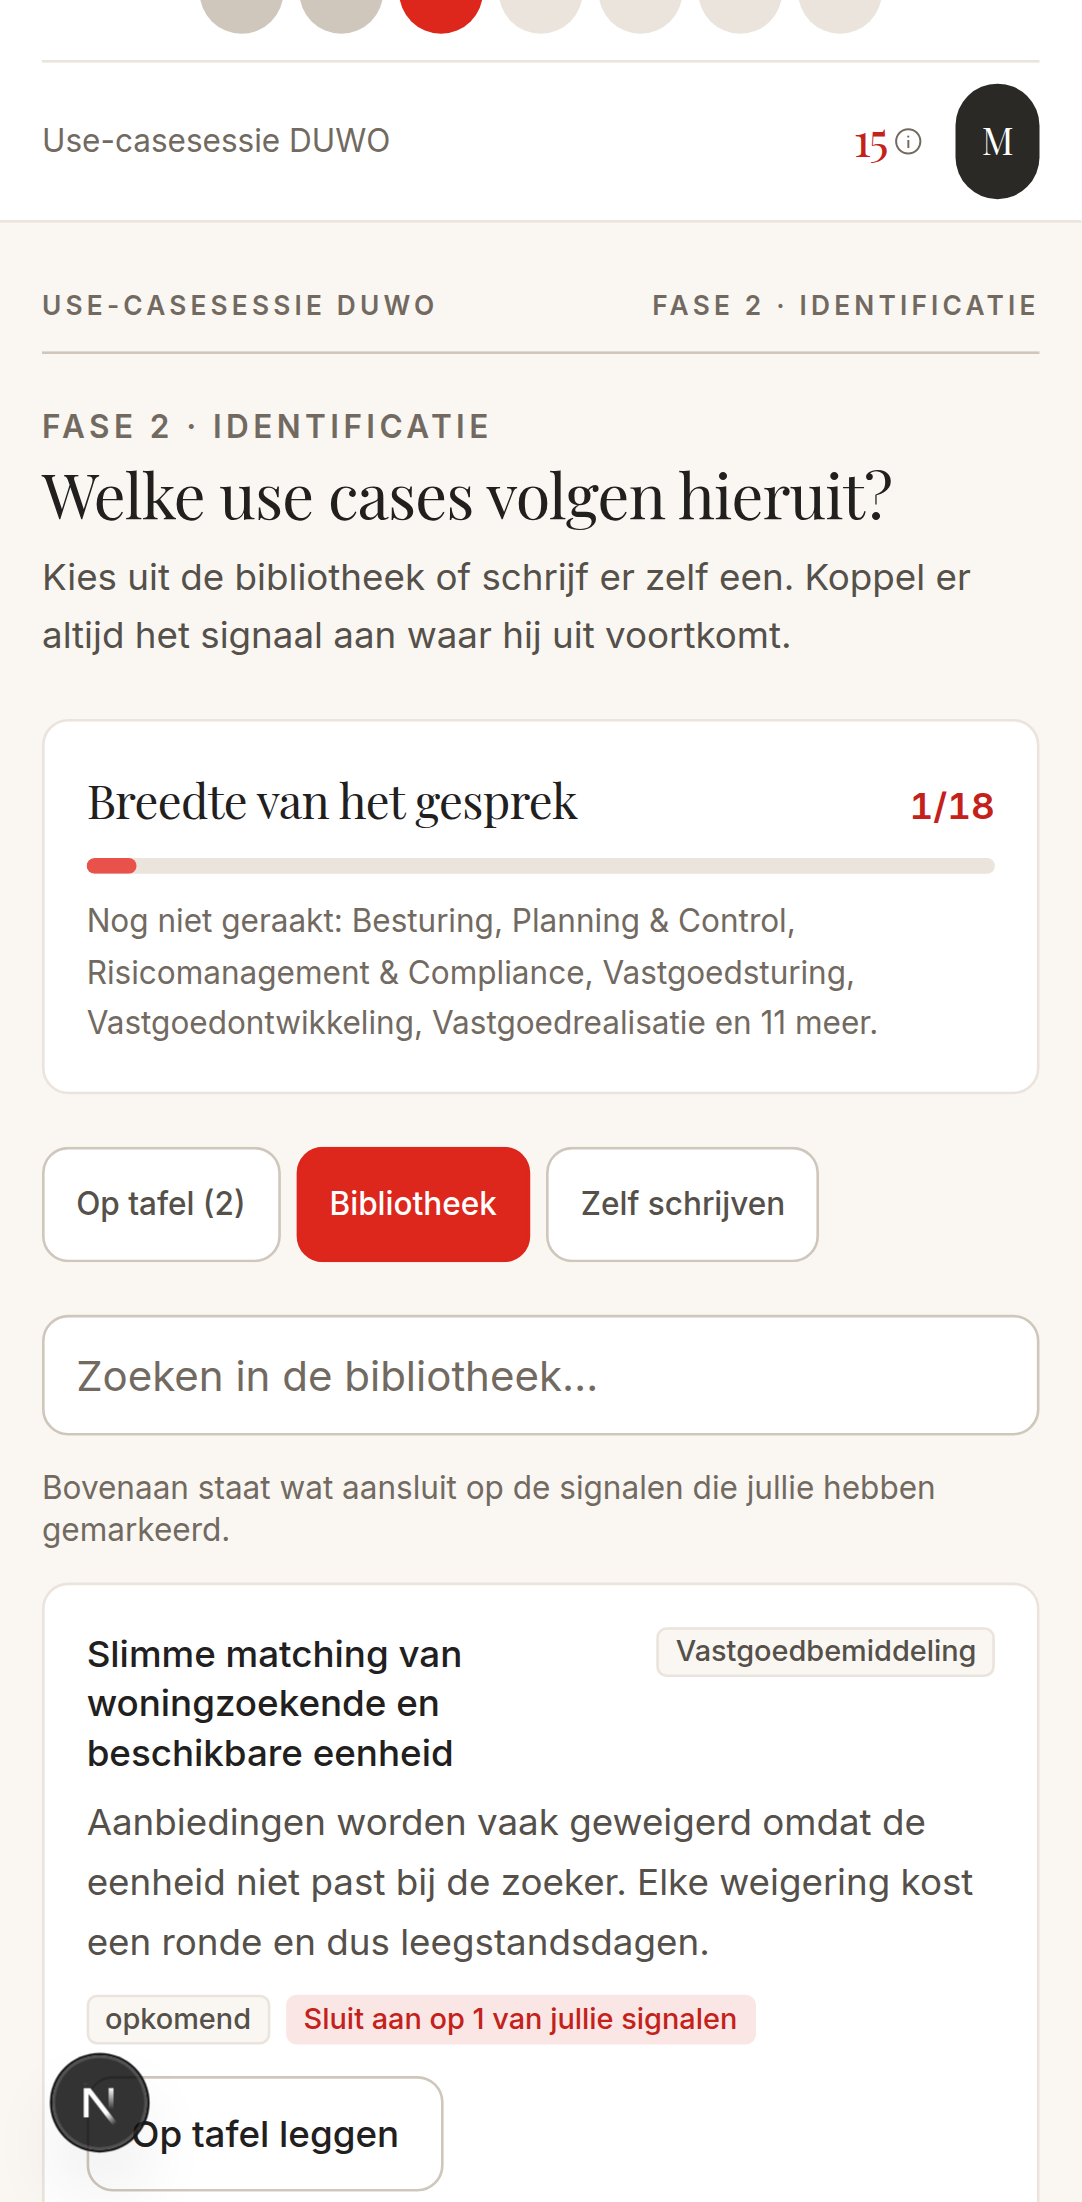
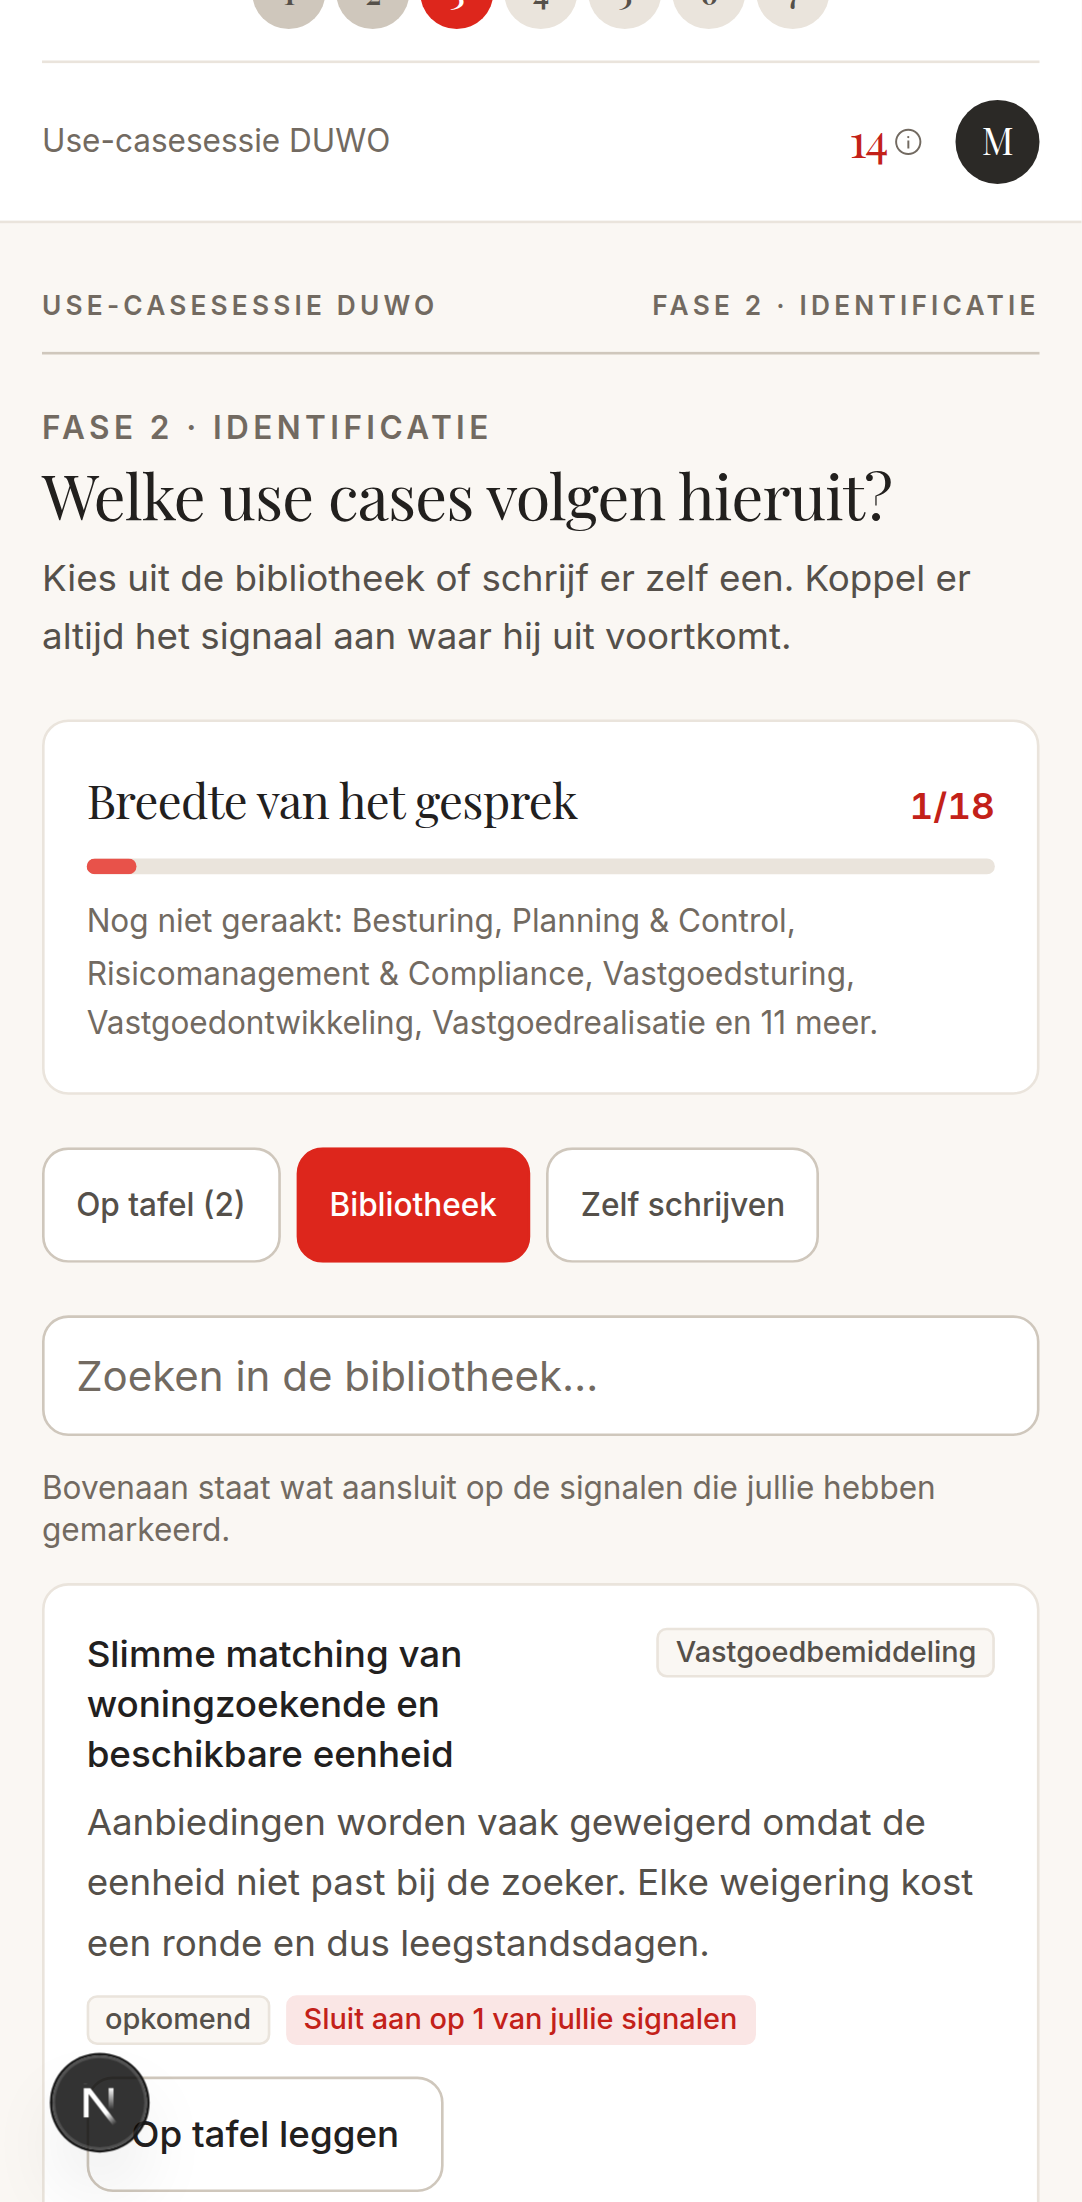
Genummerde stapcirkels in de navigatiebalk, met zichtbare klik-animatie
De stappenrij bestond uit dunne stippen (6 px hoog) zonder enige aanduiding
welke stap welke fase was — enkel een kleurverschil. Nu een cijfer (1–7) per
stap, groot genoeg om te lezen en te raken.

Bijvangst tijdens het bouwen: de bestaande hover-lift/press-duik die elke knop
al automatisch krijgt (globals.css) bleek op deze stippen vrijwel onzichtbaar,
niet omdat de animatie ontbrak maar omdat de globale regel "elke knop minstens
44 px hoog" een 6 px stip anders al in een streep trekt — precies het probleem
dat `PijlActie` elders al oploste door de zichtbare tekening in een eigen
44×44-raakvlak te zetten, los van de knop die de maat opeist. Diezelfde
constructie nu ook hier: de zichtbare cirkel is een <span> binnen de knop, niet
de knop zelf.

Bij het toepassen van die constructie bleek het avatarknopje (rol/opdracht,
uit de vorige ronde) aan hetzelfde euvel te lijden — 32 px breed maar door de
regel 44 px hoog, dus een ei in plaats van een cirkel. Nooit opgevallen omdat
het verschil op schermgrootte klein oogt; hier meteen meegefixt met dezelfde
raakvlak-constructie, gemeten met een boundingBox-toets (32×44 voor de fix,
32×32 erna).

Kleurstaten kregen ieder hun eigen tekstkleur op het cijfer (wit op vol accent,
accent-diep op de zachte tint, inkt-zacht op de rand-tinten). Bij het narekenen
bleek `rand` met `inkt-licht` op 4,21 te zitten — onder de norm van 4,5 voor
kleine tekst — dus is dat `inkt-zacht` geworden (6,32). De overige drie
[…]

diff --git a/src/components/sessiebalk.tsx b/src/components/sessiebalk.tsx
@@ -20,11 +20,18 @@ import { InfoIcoon, OogDichtIcoon, OogIcoon, SyncIcoon, WaarschuwingIcoon } from
  * automatisch mee (`eigen_fase` is dan null). Wie zelf doorklikt naar een latere fase dan de groep
  * ziet daaronder de waarschuwing dat hij voorloopt — geen blokkade, alleen een seintje.
  *
- * De zeven fasen staan als stippen, zonder tekst: met tekstlabels erbij paste de rij niet in één
- * regel op een telefoon, en elke fasepagina toont de naam toch al als kopregel ("FASE 1 ·
- * VERKENNEN") — een tweede keer dezelfde tekst in de balk voegt niets toe. Rol, sessietitel en de
- * rolopdracht staan om diezelfde reden niet meer continu in beeld, maar achter het avatarknopje:
- * die drie horen inhoudelijk bij elkaar ("wie ben ik hier") en worden maar af en toe geraadpleegd.
+ * De zeven fasen staan als genummerde stippen, zonder namen: met tekstlabels erbij paste de rij
+ * niet in één regel op een telefoon, en elke fasepagina toont de naam toch al als kopregel ("FASE
+ * 1 · VERKENNEN") — een tweede keer dezelfde tekst in de balk voegt niets toe. Het cijfer alleen
+ * maakt wel in één oogopslag duidelijk welke stap je bekijkt, zonder de rij te verbreden. Rol,
+ * sessietitel en de rolopdracht staan om diezelfde reden niet meer continu in beeld, maar achter
+ * het avatarknopje: die drie horen inhoudelijk bij elkaar ("wie ben ik hier") en worden maar af en
+ * toe geraadpleegd.
+ *
+ * Elke stip is een 44px-raakvlak met de zichtbare cirkel erbinnen — dezelfde constructie als bij
+ * `PijlActie`, waar de globale regel dat elke knop minstens 44 pixels hoog is een cirkel anders in
+ * een ei trekt. De lift-op-hover en duik-bij-indrukken die elke knop al krijgt (zie globals.css)
+ * werkt hierdoor zichtbaar door op de cirkel: precies het seintje dat de stip aan te klikken is.
  */
 export function Sessiebalk({
   state,
@@ -64,9 +71,9 @@ export function Sessiebalk({
   return (
     <header className="border-b border-rand bg-vlak">
       <div className="mx-auto w-full max-w-4xl px-4">
-        <nav aria-label={`Fase, sessie ${sessieId}`} className="py-2.5">
-          <ol className="flex items-center justify-center gap-1.5">
-            {FASES.map((f) => (
+        <nav aria-label={`Fase, sessie ${sessieId}`} className="py-1">
+          <ol className="flex items-center justify-center gap-1">
+            {FASES.map((f, index) => (
               <li key={f}>
                 <button
                   type="button"
@@ -75,8 +82,14 @@ export function Sessiebalk({
                   aria-current={f === bekekenFase ? "step" : undefined}
                   aria-label={FASE_LABELS[f]}
                   title={FASE_LABELS[f]}
-                  className={`block h-1.5 w-8 rounded-full transition-colors disabled:cursor-not-allowed disabled:opacity-40 ${stijlVoorStap(f, bekekenFase, state.sessie.fase)}`}
-                />
+                  className="flex items-center justify-center disabled:cursor-not-allowed disabled:opacity-40"
+                >
+                  <span
+                    className={`cijfer flex h-7 w-7 items-center justify-center rounded-full text-[12px] font-semibold transition-colors ${stijlVoorStap(f, bekekenFase, state.sessie.fase)}`}
+                  >
+                    {index + 1}
+                  </span>
+                </button>
               </li>
             ))}
           </ol>
@@ -106,9 +119,13 @@ export function Sessiebalk({
               aria-label={
                 rolpaneelZichtbaar ? "Verberg jouw rol en opdracht" : "Toon jouw rol en opdracht"
               }
-              className={`display flex h-8 w-8 items-center justify-center rounded-full text-sm text-white transition-colors ${rolpaneelZichtbaar ? "bg-accent-sterk" : "bg-houtskool"}`}
+              className="flex items-center justify-center"
             >
-              {initiaal}
+              <span
+                className={`display flex h-8 w-8 items-center justify-center rounded-full text-sm text-white transition-colors ${rolpaneelZichtbaar ? "bg-accent-sterk" : "bg-houtskool"}`}
+              >
+                {initiaal}
+              </span>
             </button>
           </div>
         </div>
@@ -180,11 +197,11 @@ function stijlVoorStap(fase: Fase, bekeken: Fase, sessieFase: Fase): string {
   const bekekenIndex = FASES.indexOf(bekeken);
   const sessieIndex = FASES.indexOf(sessieFase);
 
-  if (fase === bekeken) return "bg-accent-sterk";
+  if (fase === bekeken) return "bg-accent-sterk text-white";
   // Waar de groep staat, ook als je daar zelf niet naar kijkt: een eigen, herkenbare tint.
-  if (fase === sessieFase) return "bg-accent-zacht";
-  if (index < Math.max(bekekenIndex, sessieIndex)) return "bg-rand-sterk";
-  return "bg-rand hover:bg-rand-sterk";
+  if (fase === sessieFase) return "bg-accent-zacht text-accent-diep";
+  if (index < Math.max(bekekenIndex, sessieIndex)) return "bg-rand-sterk text-inkt-zacht";
+  return "bg-rand text-inkt-zacht";
 }
 
 export function Aanwezigen({ state }: { state: SessieState }) {
